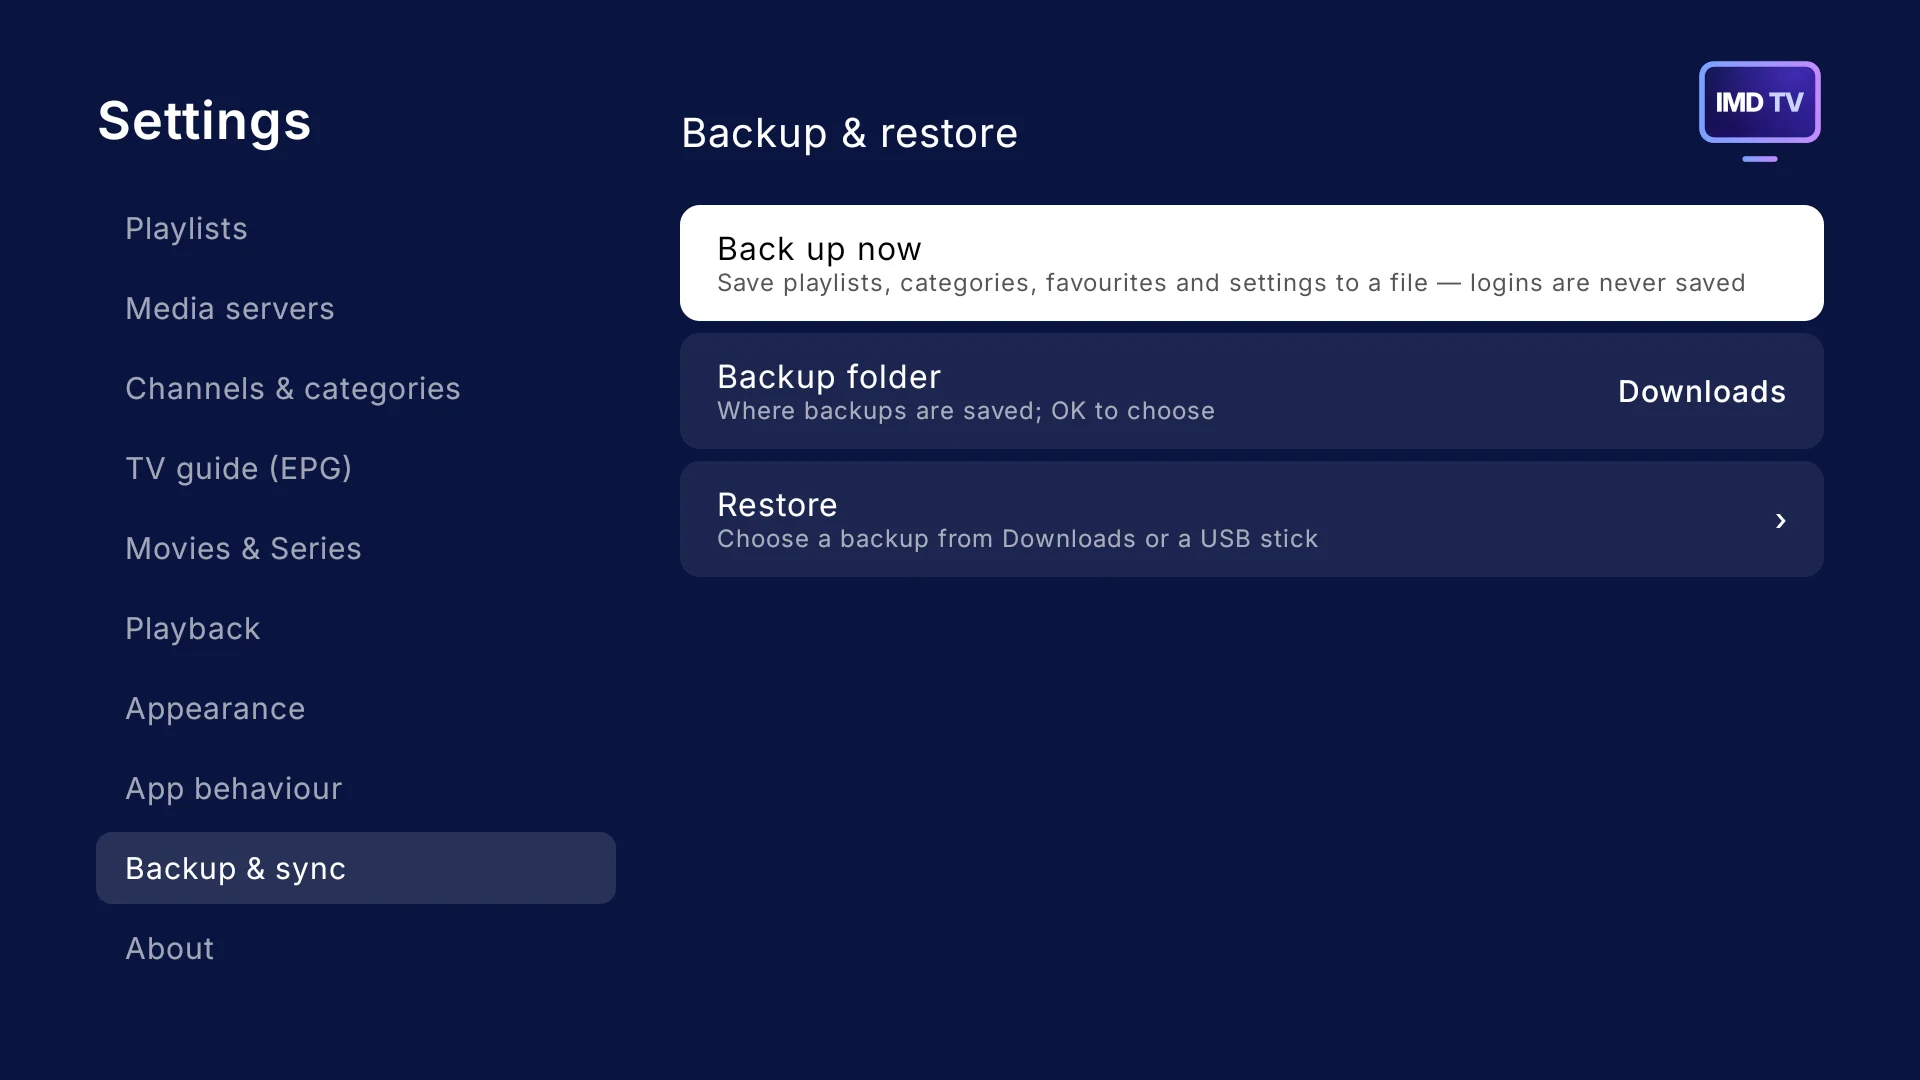
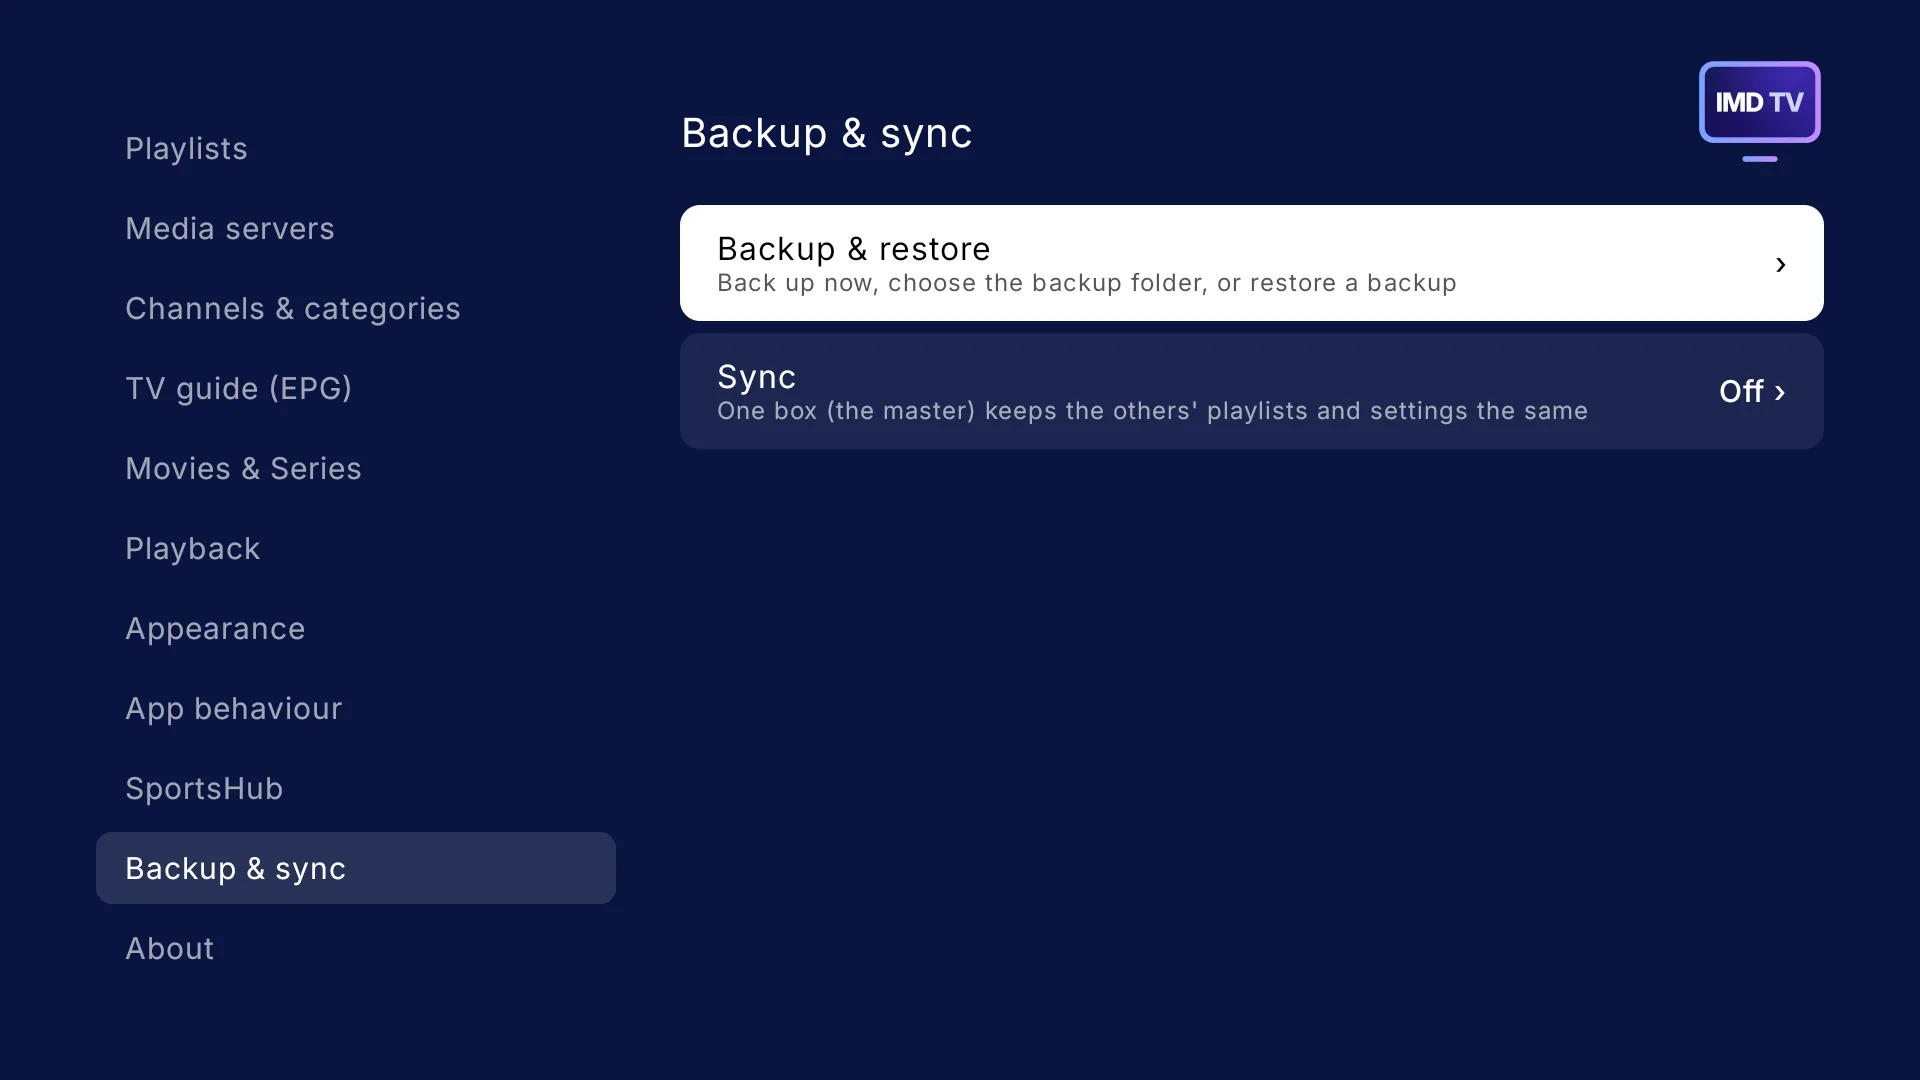
Site: SportsHub section and screenshots, settings shots with SportsHub in the list, new hero; arrow-key labels translated

diff --git a/site/index.html b/site/index.html
@@ -140,19 +140,33 @@
         </div>
         <figure class="shot"><img src="img/recordings.webp" width="1920" height="1080" loading="lazy" alt="Recordings tab: a Blaze programme recording now, two scheduled and one finished"></figure>
       </div>
+      <div class="feature">
+        <div class="text">
+          <h3>SportsHub</h3>
+          <p>Live scores, fixtures and tables, and which of your channels is showing each game.</p>
+          <ul role="list">
+            <li>Your teams' games at the top, every other game below, favourite leagues first</li>
+            <li>A match page with line-ups, recent form and where to watch</li>
+            <li>Football, American football, basketball, ice hockey, rugby union and cricket</li>
+            <li>Turn it off in Settings if you don't follow sport</li>
+          </ul>
+        </div>
+        <figure class="shot rotate"><img src="img/sportshub-games.webp" width="1920" height="1080" loading="lazy" alt="SportsHub, Games: a live Europa League game in the top box, and rows of today's games below with favourite leagues starred"><img src="img/sportshub-match.webp" width="1920" height="1080" loading="lazy" alt="SportsHub match page: line-ups on two pitches, recent form, match events, and the channels showing the game along the top"><img src="img/sportshub-standings.webp" width="1920" height="1080" loading="lazy" alt="SportsHub, Standings: the Premier League table with each team's last five results"><img src="img/sportshub-teams.webp" width="1920" height="1080" loading="lazy" alt="SportsHub, Favourite teams: pick teams league by league"><img src="img/sportshub-competitions.webp" width="1920" height="1080" loading="lazy" alt="SportsHub, Favourite competitions: switches for each country's leagues and cups"></figure>
+      </div>
 
       <h3 class="more-title">Set it up your way</h3>
       <div class="themes settings-shots">
-        <figure class="shot rotate"><img src="img/settings/playlists-1.webp" width="1920" height="1080" loading="lazy" alt="Settings, Playlists: the list of playlists, with iptv-org.github.io in use"><img src="img/settings/playlists-2.webp" width="1920" height="1080" loading="lazy" alt="Settings, Playlists: the Add playlist form"><img src="img/settings/playlists-3.webp" width="1920" height="1080" loading="lazy" alt="Settings, a playlist's page: Use this playlist and switches for Live TV, Movies and Series"><figcaption>Playlists</figcaption></figure>
-        <figure class="shot rotate"><img src="img/settings/media-servers.webp" width="1920" height="1080" loading="lazy" alt="Settings, Media servers: Plex, Jellyfin, Stremio and update playlists every"><img src="img/settings/plex-link.webp" width="1920" height="1080" loading="lazy" alt="Add Plex server: a code to enter at plex.tv/link, and a QR code"><img src="img/settings/jellyfin-add.webp" width="1920" height="1080" loading="lazy" alt="Add Jellyfin server: type the server address, for example http://192.168.1.10:8096"><img src="img/settings/jellyfin-quickconnect.webp" width="1920" height="1080" loading="lazy" alt="Add Jellyfin server: a Quick Connect code, or sign in with username and password"><img src="img/settings/jellyfin-libraries.webp" width="1920" height="1080" loading="lazy" alt="Jellyfin: choose the libraries to load from the server"><img src="img/settings/stremio-add.webp" width="1920" height="1080" loading="lazy" alt="Add Stremio account: a code to enter at link.stremio.com, and a QR code"><figcaption>Media servers</figcaption></figure>
+        <figure class="shot rotate"><img src="img/settings/playlists-1.webp" width="1920" height="1080" loading="lazy" alt="Settings, Playlists: the list of playlists and media servers, with Playlist 1 in use"><img src="img/settings/playlists-2.webp" width="1920" height="1080" loading="lazy" alt="Settings, Playlists: the Add playlist form"><img src="img/settings/playlists-3.webp" width="1920" height="1080" loading="lazy" alt="Settings, a playlist's page: Use this playlist and switches for Live TV, Movies and Series"><figcaption>Playlists</figcaption></figure>
+        <figure class="shot rotate"><img src="img/settings/media-servers.webp" width="1920" height="1080" loading="lazy" alt="Settings, Media servers: Plex, Jellyfin, Emby, Stremio, SMB / NAS and update playlists every"><img src="img/settings/plex-link.webp" width="1920" height="1080" loading="lazy" alt="Add Plex server: a code to enter at plex.tv/link, and a QR code"><img src="img/settings/jellyfin-add.webp" width="1920" height="1080" loading="lazy" alt="Add Jellyfin server: type the server address, for example http://192.168.1.10:8096"><img src="img/settings/jellyfin-quickconnect.webp" width="1920" height="1080" loading="lazy" alt="Add Jellyfin server: a Quick Connect code, or sign in with username and password"><img src="img/settings/jellyfin-libraries.webp" width="1920" height="1080" loading="lazy" alt="Jellyfin: choose the libraries to load from the server"><img src="img/settings/stremio-add.webp" width="1920" height="1080" loading="lazy" alt="Add Stremio account: a code to enter at link.stremio.com, and a QR code"><figcaption>Media servers</figcaption></figure>
         <figure class="shot rotate"><img src="img/settings/guide-1.webp" width="1920" height="1080" loading="lazy" alt="Settings, TV guide: update now, guide sources, three guide priorities and borrow guide from similar channels"><img src="img/settings/guide-2.webp" width="1920" height="1080" loading="lazy" alt="Settings, TV guide: clear guide data, update every, update on start, update on playlist change, days to keep and past days to keep"><figcaption>TV guide</figcaption></figure>
         <figure class="shot rotate"><img src="img/settings/channels-1.webp" width="1920" height="1080" loading="lazy" alt="Settings, Channels: manage channels, merge channels, merge options, channel logos and channel name clean-up"><img src="img/settings/channels-2.webp" width="1920" height="1080" loading="lazy" alt="Settings, Channels: remove special characters, hide header channels, channel numbers and channel display"><img src="img/settings/channels-3.webp" width="1920" height="1080" loading="lazy" alt="Settings, Merge options: merge across, merge by and playlists"><figcaption>Channels</figcaption></figure>
         <figure class="shot"><img src="img/settings/categories-1.webp" width="1920" height="1080" loading="lazy" alt="Settings, Categories: languages, your categories, manage provider categories, category name clean-up and a Recently watched switch"><figcaption>Categories</figcaption></figure>
-        <figure class="shot rotate"><img src="img/settings/playback-1.webp" width="1920" height="1080" loading="lazy" alt="Settings, Playback: autoplay, audio decoder, change channel with and view previous channel"><img src="img/settings/playback-2.webp" width="1920" height="1080" loading="lazy" alt="Settings, Playback: recording, catch-up and subtitles"><figcaption>Playback</figcaption></figure>
+        <figure class="shot rotate"><img src="img/settings/playback-1.webp" width="1920" height="1080" loading="lazy" alt="Settings, Playback: autoplay while scrolling, audio decoder, audio sync and buffer before playing"><img src="img/settings/playback-2.webp" width="1920" height="1080" loading="lazy" alt="Settings, Playback: what each arrow key does while watching, recording, catch-up and subtitles"><figcaption>Playback</figcaption></figure>
         <figure class="shot"><img src="img/settings/vod-sort.webp" width="1920" height="1080" loading="lazy" alt="Settings, Movies and Series: Sort by Playlist, Alphabetical or Recently added"><figcaption>Movies &amp; Series</figcaption></figure>
         <figure class="shot"><img src="img/settings/recording.webp" width="1920" height="1080" loading="lazy" alt="Settings, Recording: recording switch, save to, free space, start early, end late and keep the box awake"><figcaption>Recording</figcaption></figure>
-        <figure class="shot rotate"><img src="img/settings/appearance-1.webp" width="1920" height="1080" loading="lazy" alt="Settings, Appearance: App, Live TV and Movies and Series"><img src="img/settings/appearance-2.webp" width="1920" height="1080" loading="lazy" alt="Settings, Appearance, App: theme, theme colour, theme mode, date and time, and reset"><img src="img/settings/appearance-3.webp" width="1920" height="1080" loading="lazy" alt="Settings, Appearance, Live TV: the Text sizing choices Large, Medium and Small"><figcaption>Appearance</figcaption></figure>
-        <figure class="shot"><img src="img/settings/behaviour-1.webp" width="1920" height="1080" loading="lazy" alt="Settings, App behaviour: last channel on start, Back in TV guide, hold Back in TV guide, full screen after, language, parental controls and confirm exit"><figcaption>App behaviour</figcaption></figure>
+        <figure class="shot rotate"><img src="img/settings/appearance-1.webp" width="1920" height="1080" loading="lazy" alt="Settings, Appearance: App, Live TV and Movies and Series"><img src="img/settings/appearance-2.webp" width="1920" height="1080" loading="lazy" alt="Settings, Appearance, App: theme, theme colour, theme mode, date and time, and reset"><img src="img/settings/appearance-live-tv-1.webp" width="1920" height="1080" loading="lazy" alt="Settings, Appearance, Live TV: channels in guide, header size, preview fade, multi-line names and wide channel names"><img src="img/settings/appearance-live-tv-2.webp" width="1920" height="1080" loading="lazy" alt="Settings, Appearance, Live TV: text sizing and text size"><figcaption>Appearance</figcaption></figure>
+        <figure class="shot rotate"><img src="img/settings/behaviour-1.webp" width="1920" height="1080" loading="lazy" alt="Settings, App behaviour: last channel on start, Back in TV guide, hold Back in TV guide, full screen after, parental controls and confirm exit"><img src="img/settings/behaviour-2.webp" width="1920" height="1080" loading="lazy" alt="Settings, App behaviour: confirm exit, start on boot and show ping"><figcaption>App behaviour</figcaption></figure>
+        <figure class="shot rotate"><img src="img/settings/sportshub-1.webp" width="1920" height="1080" loading="lazy" alt="Settings, SportsHub: show SportsHub, preview fade, today's results, preview on focus and the sports list"><img src="img/settings/sportshub-2.webp" width="1920" height="1080" loading="lazy" alt="Settings, SportsHub: switches for football, American football, basketball, ice hockey, rugby union and cricket"><figcaption>SportsHub</figcaption></figure>
         <figure class="shot rotate"><img src="img/settings/parental.webp" width="1920" height="1080" loading="lazy" alt="Settings, Parental controls: on, lock content rated 12A and up, ask for the PIN until the app closes, change PIN"><img src="img/parental-pin.webp" width="1920" height="1080" loading="lazy" alt="Enter your PIN to unlock a channel, or use your backup word"><img src="img/parental-locked.webp" width="1920" height="1080" loading="lazy" alt="Full screen: Blaze is child-locked by parental controls, press OK to enter the PIN"><figcaption>Parental controls</figcaption></figure>
         <figure class="shot rotate"><img src="img/settings/backup-1.webp" width="1920" height="1080" loading="lazy" alt="Settings, Backup and restore"><img src="img/settings/backup-2.webp" width="1920" height="1080" loading="lazy" alt="Settings, Sync: this box is the master and has no followers"><img src="img/settings/backup-3.webp" width="1920" height="1080" loading="lazy" alt="Settings, Sync: this box is a follower, looking for a master on the network"><figcaption>Backup &amp; sync</figcaption></figure>
       </div>
